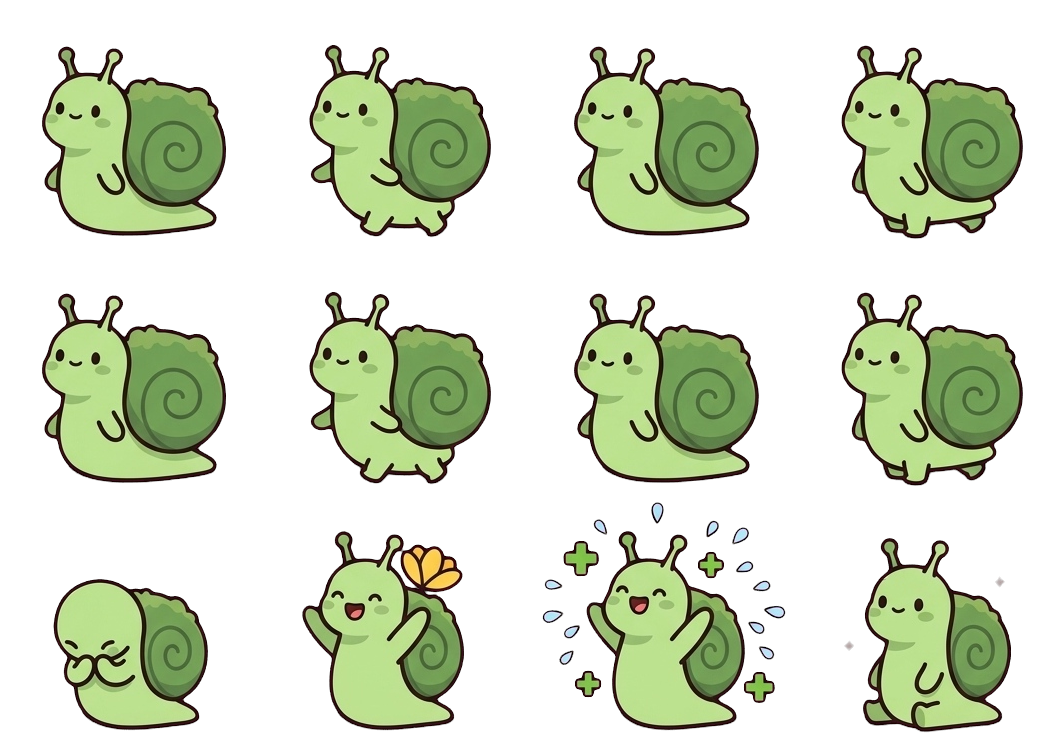
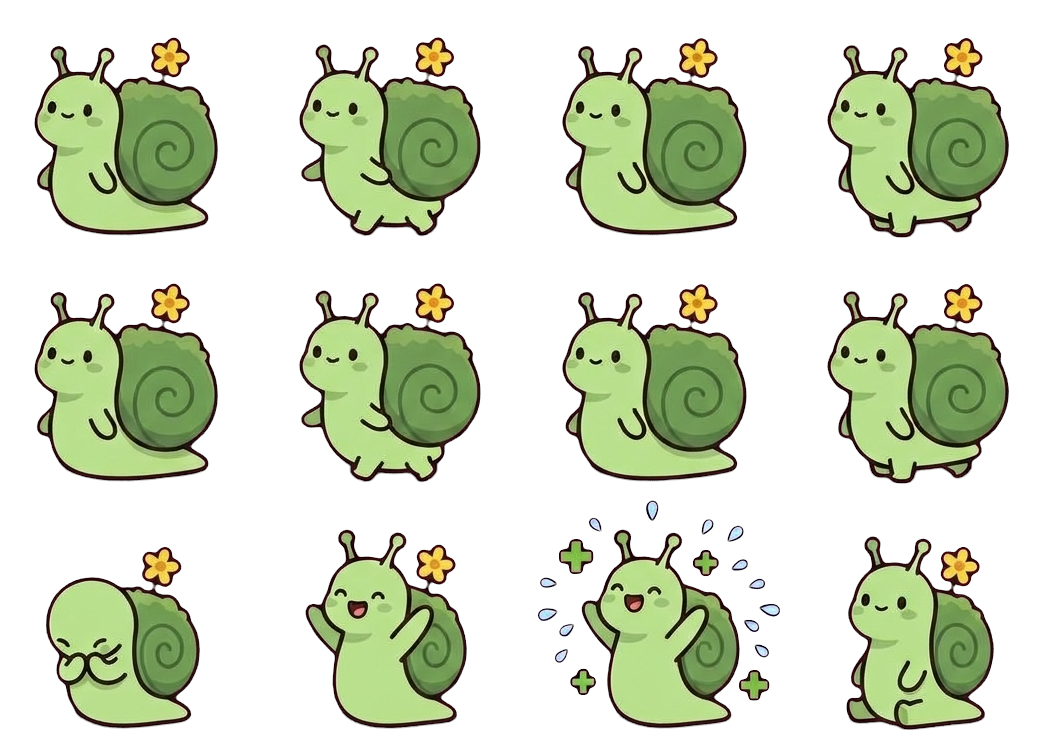
Mossy: shell flower now in his animation frames; add tools/build_overviews.py
Claude-Session: https://claude.ai/code/session_01EhkagRdaEkRKXUjDzP8ARK

diff --git a/tools/build_overviews.py b/tools/build_overviews.py
@@ -1,0 +1,76 @@
+"""Rebuild animations/_overview.jpg (unarmed sheets) and animations/_armed_overview.jpg.
+usage: python3 -I tools/build_overviews.py [REPO]"""
+import os, sys
+from PIL import Image, ImageDraw, ImageFont
+
+BG, PANEL, TXT = (40, 44, 53), (70, 88, 110), (255, 255, 255)
+
+def font(sz):
+    for p in ('/usr/share/fonts/truetype/dejavu/DejaVuSans-Bold.ttf',):
+        if os.path.exists(p):
+            return ImageFont.truetype(p, sz)
+    return ImageFont.load_default()
+
+def cells(sheet, rows):
+    w, h = sheet.size
+    cw, ch = w // 4, h // rows
+    return [[sheet.crop((c * cw, r * ch, (c + 1) * cw, (r + 1) * ch)) for c in range(4)] for r in range(rows)]
+
+def unarmed(repo, names):
+    pw, cols, gap, title = 420, 4, 10, 34
+    panels = []
+    for n in names:
+        p = f'{repo}/animations/{n}/{n}_sheet_right.png'
+        if not os.path.exists(p):
+            continue
+        s = Image.open(p).convert('RGBA')
+        sw = pw - 20
+        s = s.resize((sw, round(s.height * sw / s.width)), Image.LANCZOS)
+        pan = Image.new('RGBA', (pw, title + s.height + 10), PANEL)
+        pan.alpha_composite(s, (10, title))
+        ImageDraw.Draw(pan).text((8, 6), n, font=font(20), fill=TXT)
+        panels.append(pan)
+    rows = [panels[i:i + cols] for i in range(0, len(panels), cols)]
+    rh = [max(p.height for p in r) for r in rows]
+    W = gap + cols * (pw + gap)
+    out = Image.new('RGBA', (W, gap + sum(h + gap for h in rh)), BG)
+    y = gap
+    for r, h in zip(rows, rh):
+        for i, p in enumerate(r):
+            out.alpha_composite(p, (gap + i * (pw + gap), y))
+        y += h + gap
+    out.convert('RGB').save(f'{repo}/animations/_overview.jpg', quality=90)
+
+def armed(repo, names):
+    H, gap, cols = 220, 8, 3
+    panels = []
+    for n in names:
+        p = f'{repo}/animations/{n}/{n}_armed_sheet_right.png'
+        if not os.path.exists(p):
+            continue
+        c = cells(Image.open(p).convert('RGBA'), 2)
+        picks = [c[0][0], c[0][2], c[1][1]]
+        sc = H / picks[0].height
+        picks = [f.resize((round(f.width * sc), H), Image.LANCZOS) for f in picks]
+        pan = Image.new('RGBA', (sum(f.width for f in picks) + 20, H + 10), PANEL)
+        x = 10
+        for f in picks:
+            pan.alpha_composite(f, (x, 5)); x += f.width
+        panels.append(pan)
+    rows = [panels[i:i + cols] for i in range(0, len(panels), cols)]
+    W = max(sum(p.width for p in r) + gap * (len(r) + 1) for r in rows)
+    out = Image.new('RGBA', (W, gap + len(rows) * (H + 10 + gap)), BG)
+    y = gap
+    for r in rows:
+        x = gap
+        for p in r:
+            out.alpha_composite(p, (x, y)); x += p.width + gap
+        y += H + 10 + gap
+    out.convert('RGB').save(f'{repo}/animations/_armed_overview.jpg', quality=90)
+
+if __name__ == '__main__':
+    repo = sys.argv[1] if len(sys.argv) > 1 else '.'
+    names = sorted(d for d in os.listdir(f'{repo}/animations') if os.path.isdir(f'{repo}/animations/{d}'))
+    unarmed(repo, names)
+    armed(repo, names)
+    print('overviews rebuilt for', ', '.join(names))

diff --git a/HANDOFF.md b/HANDOFF.md
@@ -91,7 +91,8 @@ This repo (`zqh7y/Game_Assets2`, branch `main`) holds the art. Push finished wor
 - Dough's armed sheet reuses his old rolling-pin walk and swing frames, so his bat there is a plain
   rolling pin without the cloth grip of the weapon icon.
 - Octo's gun is drawn very small in its armed sheet.
-- Mossy's yellow shell flower is on his card but missing from most of his animation frames.
+- Mossy's yellow shell flower is in every animation frame except the big heal-burst frame
+  (row 3, frame 3 of `Mossy_sheet_right.png`).
 - Nana holds her slipper only in the attack row (on purpose, it fixed an
   inconsistency).
 
@@ -143,6 +144,10 @@ a magenta or green background and detect the key color from the top-left corner.
   first: it prints the objects it found in reading order and writes a `_check_` image.
   `merge_px` (default 15) is how far apart parts may be and still count as one object;
   lower it (9-13) when two neighbours get merged.
+
+- `tools/build_overviews.py [REPO]` - rebuilds `animations/_overview.jpg` and
+  `animations/_armed_overview.jpg` from every brawler folder in `animations/`. Run it after
+  adding or changing any brawler's sheets.
 
 Always open the `_check_` image before copying anything into the repo. Don't commit
 `_check_` files.
